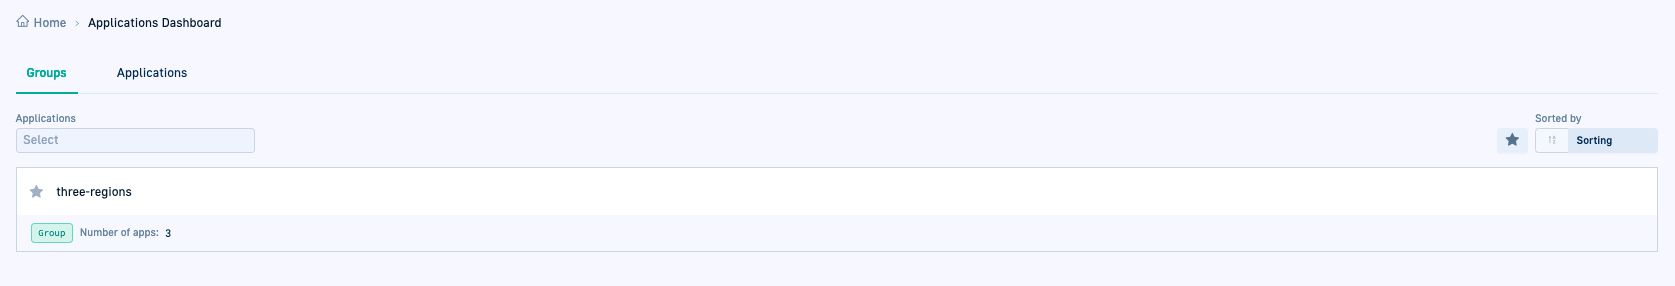
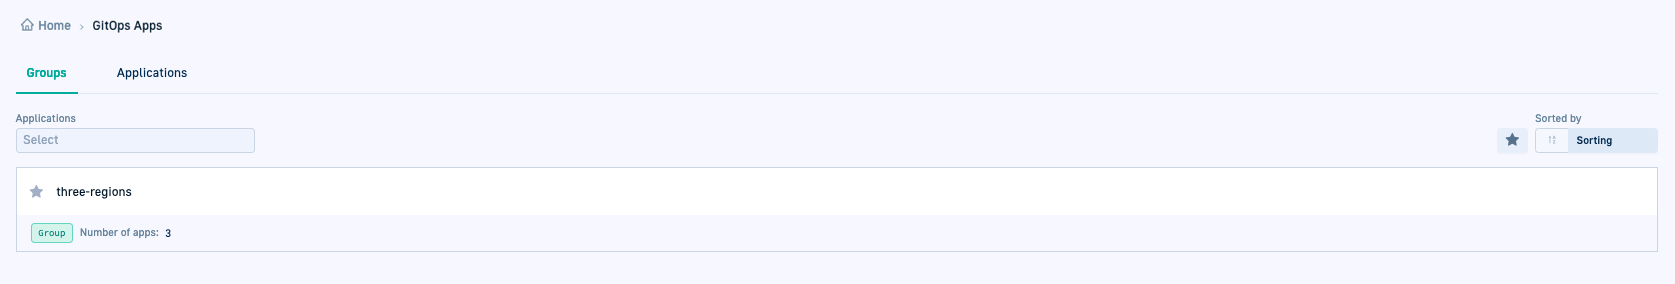
Add overview topic for apps
Added overview topic, created gitops apps dashboard topic, updated app group navigation

diff --git a/_docs/deployments/gitops/gitops-apps-dashboard.md b/_docs/deployments/gitops/gitops-apps-dashboard.md
@@ -1,0 +1,128 @@
+---
+title: "GitOps Apps dashboard"
+description: "Explore applications in the GitOps Apps dashboard"
+toc: true
+---
+
+
+As a one-stop shop for Argo Rollouts and Argo CD, the GitOps Apps dashboard delivers on the challenge of creating and managing individual applications across all clusters in your enterprise. 
+A wide range of filters, progressive delivery views, and enriched CI and CD information, provide full traceability and visibility for deployments. 
+
+{% include
+image.html
+lightbox="true"
+file="/images/applications/app-dashboard-main-view.png"
+url="/images/applications/app-dashboard-main-view.png"
+alt="GitOps Apps dashboard"
+caption="GitOps Apps dashboard"
+max-width="70%"
+%}
+
+
+
+## View modes for GitOps Apps dashboard 
+
+When you navigate to the GitOps Apps dashboard, the dashboard displays the Argo CD applications you have created and deployed, sorted by the most recent deployments.  
+The applications are displayed in List view (the default). You can switch to Card view mode for applications. 
+
+
+### Applications List view
+The List view displays the hierarchical structure of your applications, showcasing the relationships between applications.  
+This view provides structural context, making it easy to understand parent-child relationships between applications.
+
+Here is an example of the GitOps Apps dashboard in List view mode:
+
+{% include
+image.html
+lightbox="true"
+file="/images/applications/app-dashboard-main-view.png"
+url="/images/applications/app-dashboard-main-view.png"
+alt="GitOps Apps dashboard: List view"
+caption="GitOps Apps dashboard: List view"
+max-width="70%"
+%}
+
+### Applications Card View
+In contrast, the Card view presents a flat, scannable list of applications, without displaying their hierarchical structure.  
+This view is ideal for a quick overview, though it does not provide context for relationships between applications.
+
+Here is an example of the GitOps Apps dashboard in Card view mode:
+
+{% include
+image.html
+lightbox="true"
+file="/images/applications/app-dashboard-card-view.png"
+url="/images/applications/app-dashboard-card-view.png"
+alt="GitOps Apps dashboard: Card view"
+caption="GitOps Apps dashboard: Card view"
+max-width="60%"
+%}
+
+## Application types in the GitOps Apps dashboard
+
+The GitOps Apps dashboard displays different types of Argo CD applications, each rendered differently based on their structure. 
+Each application is clearly tagged to indicate its type in the hierarchy.
+
+##### Standalone Argo CD applications
+Standalone applications are displayed individually, with or without their parent Git Source applications.
+
+{% include
+image.html
+lightbox="true"
+file="/images/applications/dashboard/app-view-standalone-apps.png"
+url="/images/applications/dashboard/app-view-standalone-apps.png"
+alt="Standalone applications in GitOps Apps dashboard"
+caption="Standalone applications in GitOps Apps dashboard"
+max-width="60%"
+%}
+
+##### Dynamically generated application sets
+ApplicationSets include multiple applications dynamically generated based on a predefined configuration. 
+In the dashboard, the generated applications are displayed nested within the parent.
+
+{% include
+image.html
+lightbox="true"
+file="/images/applications/dashboard/app-view-appset.png"
+url="/images/applications/dashboard/app-view-appset.png"
+alt="ApplicationSet in GitOps Apps dashboard"
+caption="ApplicationSet in GitOps Apps dashboard"
+max-width="60%"
+%}
+
+##### Applications with multiple sources
+A single application pulling configurations from multiple repositories or sources, multisource applications are displayed with the different sources nested below the main application.
+
+{% include
+image.html
+lightbox="true"
+file="/images/applications/dashboard/app-view-multisource-apps.png"
+url="/images/applications/dashboard/app-view-multisource-apps.png"
+alt="Multisource application in GitOps Apps dashboard"
+caption="Multisource application in GitOps Apps dashboard"
+max-width="60%"
+%}
+
+##### Git Source applications
+Applications created in Codefresh are committed to a Git repository that stores the manifests. Codefresh manages the Git Source itself as an application. Git Sources are essential for viewing configuration settings of all application types, and managing standalone and multisource applications.  
+See [Git Sources in Runtimes]({{site.baseurl}}/docs/installation/gitops/git-sources/).
+
+
+
+## GitOps Apps dashboard application information 
+Here's a description of the information and actions in the GitOps Apps dashboard.
+
+{: .table .table-bordered .table-hover}
+| Item                     | Description            |  
+| --------------         | --------------           |  
+|**Application filters**       | Filter by a range of attributes to customize the information in the dashboard to bring you what you need. {::nomarkdown}  <ul><li>Application health<br>A snapshot that displays a breakdown of the deployed applications by their health status.<br>Click a status to filter by applications that match it.<br>Codefresh tracks Argo CD's set of health statuses. See <a href="https://codefresh.io/docs/docs/deployments/gitops/applications-dashboard/#health-status-for-application-resources">Health status</a> in this article, and Argo CD's official documentation on <a href="https://argo-cd.readthedocs.io/en/stable/operator-manual/health" target=”_blank”>Health sets</a>.</li><li>Application attributes<br>Attribute filters support multi-selection, and results are based on an OR relationship within the same filter with multiple options, and an AND relationship between filters.<br>Clicking <b>More Filters</b> gives you options to filter by Health status, Cluster names, Namespace, and Type. <br><ul><li>Application Type: Can be any of the following<ul><li>Applications: Standalone applications. See the official documentation on <a href="https://argo-cd.readthedocs.io/en/stable/operator-manual/declarative-setup/#applications" target=”_blank”>Applications</a>.</li><li>ApplicationSet: Applications created using the ApplicationSet Custom Resource (CR) template. An ApplicationSet can generate single or multiple applications. See the official documentation on <a href="https://argo-cd.readthedocs.io/en/stable/user-guide/application-set" target=”_blank”>Generating Applications with ApplicationSet</a>.</li><li>Git Source: Applications created by Codefresh that includes other applications and CI resources. See <a href="https://codefresh.io/docs/docs/gitops-runtime/git-sources/">Git Sources</a>.</li></ul></li></li><li>Labels:The K8s labels defined for the applications. The list displays labels of <i>all</i> the applications, even if you have applied filters.<br>To see the available labels, select <b>Add</b>, and then select the required label and one or more values. <br>To filter by the labels, select <b>Add</b> and then <b>Apply</b>.<br> See the official documentation on <a href="https://kubernetes.io/docs/concepts/overview/working-with-objects/labels" target=”_blank”>Labels and selectors</a>.</li></ul></ul>{:/}|
+|{::nomarkdown}<img src="../../../../images/icons/icon-mark-favorite.png?display=inline-block">{:/}| Star applications as favorites and view only the starred applications.{::nomarkdown}<br>Select the <img src="../../../../images/icons/icon-mark-favorite.png?display=inline-block"> to star the application as a favorite.<br><br>To filter by favorite applications, on the filters bar, select <img src="../../../../images/icons/icon-fav-starred.png?display=inline-block">.<br>{:/} TIP: If you star applications as favorites in the GitOps Apps dashboard, you can filter by the same applications in the [DORA metrics dashboard]({{site.baseurl}}/docs/dashboards/dora-metrics/#metrics-for-favorite-applications).  |
+|**Application actions**| Options to monitor/manage applications through the application's context menu. {::nomarkdown}<ul><li>Quick view<br>A comprehensive read-only view of the deployment and definition information for the application.</li>{:/}See [Monitor deployments for selected Argo CD application](#monitoring-deployments-for-selected-argo-cd-application) in this article.{::nomarkdown}<li>Synchronize/Sync<br>Manually synchronize the application.</li>{:/}See [Manually sync applications]({{site.baseurl}}/docs/deployments/gitops/manage-application/#manually-synchronize-an-argo-cd-application).{::nomarkdown}<li>Edit<br>Modify application definitions.</li>{:/}See [Edit application definitions]({{site.baseurl}}/docs/deployments/gitops/manage-application/#edit-argo-cd-application-definitions).{::nomarkdown}<li>Refresh and Hard Refresh: Always available in the application's toolbar. <ul><li>Refresh: Retrieve desired (Git) state, compare with the live (cluster) state, and refresh the application to sync with the desired state.</li><li>Hard Refresh: Refresh the application to sync with the Git state, while removing the cache.</li></ul>See <a href="https://codefresh.io/docs/docs/deployments/gitops/manage-application/#refreshhard-refresh-argo-cd-applications/">Refresh/hard refresh GitOps applications</a>.{:/} |
+
+## Related articles
+[Monitoring Argo CD applications]({{site.baseurl}}/docs/deployments/gitops/applications-dashboard/)  
+[Managing Argo CD applications]({{site.baseurl}}/docs/deployments/gitops/manage-application/)  
+[Environments dashboard]({{site.baseurl}}/docs/dashboards/gitops-environments/)    
+[Products dashboard]({{site.baseurl}}/docs/dashboards/gitops-products/)  
+[Home Dashboard]({{site.baseurl}}/docs/dashboards/home-dashboard/)  
+[DORA metrics]({{site.baseurl}}/docs/dashboards/dora-metrics/)  

diff --git a/_docs/deployments/gitops/about-apps.md b/_docs/deployments/gitops/about-apps.md
@@ -10,18 +10,17 @@ toc: true
 
 
 ## GitOps applications
-Applications in the GitOps context represent a declarative definition of infrastructure and services stored in Git repositories. These configurations ensure that the desired state of your system is always versioned, auditable, and easily recoverable in case of failure.
+In the GitOps context, applications represent a declarative definition of infrastructure and services stored in Git repositories. These configurations ensure that the desired state of your system is always versioned, auditable, and easily recoverable in case of failure.
 
 ##### Argo CD applications
-In Argo CD, an application is a core concept representing a logical grouping of Kubernetes manifests. These manifests define what resources to deploy, where to deploy them and how to synchronize the live state with the desired state stored in Git.  
-Argo CD automates synchronization, ensuring deployments remain consistent and preventing configuration drift. For example, an application that passes testing in the staging environment but encounters issues in production can be quickly traced and adjusted, thanks to Git as the single source of truth. This traceability ensures auditability and operational efficiency across environments.
+In Argo CD, an application is a core concept representing a logical grouping of Kubernetes manifests. These manifests define what resources to deploy, where to deploy them, and how to synchronize the live state with the desired state stored in Git.  
+Argo CD automates synchronization, ensuring deployments remain consistent and preventing configuration drift through Git as the single source of truth.
 
 ##### Argo CD applications with Codefresh GitOps
-Codefresh GitOps builds on the foundation of Argo CD applications, adding unique capabilities that enhance context, deployment workflows, and lifecycle management.  
+Codefresh GitOps builds on the foundation of Argo CD applications, adding unique capabilities that provide context and support lifecycle management.  
 
-With Codefresh, you can:
-Create full-featured, completely GitOps-compliant Argo CD applications in Form or YAML modes. The application manifest is generated, committed to Git, and synced to your cluster.
-View the different types applications and how they are structured wuth these applications and their resources Application manifests are auto-generated, committed to Git, and synchronized to your Kubernetes clusters, ensuring complete compliance with GitOps principles.
+You can create fully GitOps-compliant standalone Argo CD applications in Codefresh and manage them with full functionality. The application manifests are auto-generated, committed to Git, and synchronized with your Kubernetes clusters, ensuring compliance with GitOps principles.  
+You can also view additional application types such as ApplicationSets and multisource applications in Codefresh to understand their structure and .
 
 See []
 
@@ -118,6 +117,7 @@ caption="DORA metrics dashboard"
 max-width="80%"
 %}
 
+See [DORA metrics]({{site.baseurl}}/docs/dashboards/dora-metrics/).
 
 <!--- ## Getting started with applications  -->
 

diff --git a/_docs/deployments/gitops/gitops-app-groups.md b/_docs/deployments/gitops/gitops-app-groups.md
@@ -8,11 +8,8 @@ toc: true
 
 
 The Group view for Argo CD applications is a simple and efficient way to focus on deployments of the specific apps you're interested in, amidst the potentially numerous apps within your enterprise.  
-A Codefresh feature, the Group view consolidates deployment information for all applications within the group, eliminating the need to navigate to and switch between the different applications for information on them. 
+The Group view consolidates deployment information for all applications within the group, eliminating the need to navigate to and switch between the different applications for information on them. 
 It gives the flexibility to tailor groupings according to the unique requirements of your organization and applications. The Group name is added as an annotation to the app manifest and works like any other tag in the application.
-
-
-Application Groups are an integral part of the [GitOps Apps dashboard]({{site.baseurl}}/docs/deployments/gitops/applications-dashboard/), making it easy to navigate between views of application groups and individual applications. 
 
 
 {% include image.html 
@@ -32,7 +29,6 @@ You can also monitor and manage them in the GitOps Environments and Products das
 
 ## Working with Application Groups
 
-How do you work with an Application Group?
 
 ### Assign applications to Application Groups
 
@@ -85,7 +81,7 @@ spec:
 ### Navigate to the Group view
 After assigning applications to Groups, navigate to the Groups tab in the GitOps Apps dashboard. 
 
-1. In the Codefresh UI, from Ops in the sidebar, select [GitOps Apps](https://g.codefresh.io/2.0/applications-dashboard/list){:target="\_blank"}.
+1. In the Codefresh UI, from the sidebar, select **GitOps Groups**.
 1. Click the **Groups** tab.
 
 {% include image.html 
@@ -147,7 +143,7 @@ max-width="60%"
 ## Update application assignments to Groups
 At any time, add or remove an application from the Group or Groups it belongs to. Changes to Application Groups do not affect the applications which are part of the Groups.
 
-1. In the Codefresh UI, from Ops in the sidebar, select [GitOps Apps](https://g.codefresh.io/2.0/applications-dashboard/list){:target="\_blank"}.
+1. In the Codefresh UI, from the sidebar, select **GitOps Groups**.
 1. Select the application and then click the **Configuration** tab.
 1. From **Groups**, do one of the following:
   * To add the application to one or more groups, select the group or groups.
